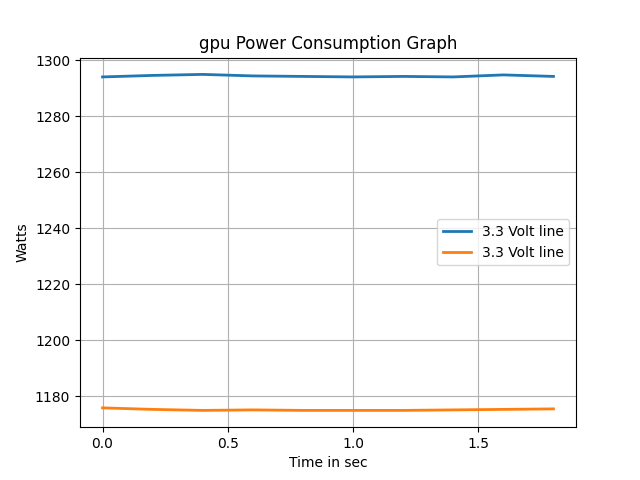
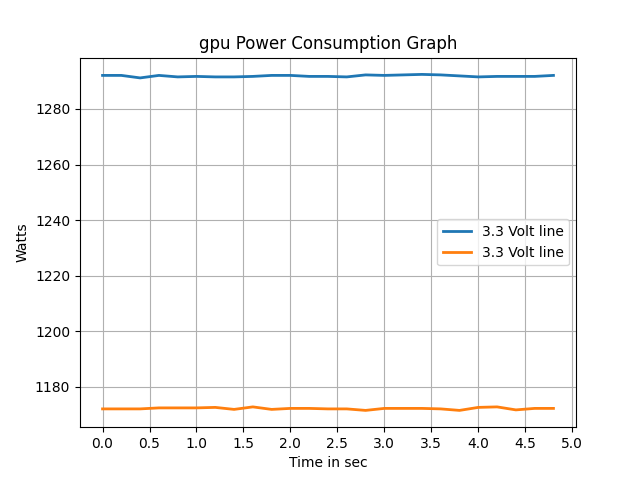
This is the server, client, and example code that is all documented

diff --git a/server.py b/server.py
@@ -1,0 +1,84 @@
+import socket
+import signal
+import sys
+import subprocess
+import json
+import time
+
+def reader(file):
+    '''
+    The goal of this function is to read times written to file 
+    by the subprocess function. It then returns this dictionary
+    to be used by the client
+    '''
+    with open(file, 'r') as f:
+        data = json.load(f)
+    print(data)
+    print(type(data))
+    return data
+
+
+def start_server(ip, port):
+    '''
+    This function will run the server forever unless it recieves a SIGint 
+    signal which is caused by "ctrl + c". The purpose of this server is to
+    connect with the client and run a class using subprocess. Once a client is
+    connected, it send a "process beginning" to indicate initial measurements. 
+    Once the subprocess is complete, it sends a "Process finished" message. Finally, 
+    the server sends a dictionary that contains the possbile code wrap arounds.
+    '''
+    # the .AF_INET will represent that the socket will say the socket being used is the IPv4
+    # the .SOCK_STREAM will represent that the socket wil be a TCP socket
+    server_socket = socket.socket(socket.AF_INET, socket.SOCK_STREAM)
+    # the server will listen to incoming connections with IP and port
+    server_socket.bind((ip, port))
+    # Turns the socket into listening mode, the param represents the amount of connections
+    server_socket.listen(1)
+    # The max amount of queued connections for the server
+    server_socket.settimeout(1)
+    print(f"Server started at {ip}:{port}, waiting for connections...")
+
+    # handles the SIGINT signal which is made when pressing crtl +c
+    def signal_handler(sig, frame):
+        print("\nServer shutting down.")
+        server_socket.close()
+        sys.exit(0)
+    
+    # registers the signal_handler functions and when ctrl+c is pressed the signal handler will be called
+    signal.signal(signal.SIGINT, signal_handler)
+    
+    # server runs forever unless ctrl+c is pressed
+    while True:
+        try:
+            # accepts new connections
+            client_socket, client_address = server_socket.accept()
+        except socket.timeout:
+            continue
+        with client_socket:
+
+            # Connection established
+            print(f"Connection from {client_address} established.")
+            processStarting = "Process Starting"
+            
+            # Process Starting message being sent
+            client_socket.sendall(processStarting.encode('utf-8'))
+
+            # Running the class
+            result = subprocess.run(["python3","timeWatch.py", "5"], capture_output=True, text=True)
+
+            # Process Finished message being sent
+            processComplete = "Process finished"
+            client_socket.sendall(processComplete.encode('utf-8'))
+
+            #Printing out any errors
+            print("Output:\n", result.stdout)
+            print("Errors:\n", result.stderr)
+
+
+            client_socket.close()
+
+
+SERVER_IP = '127.0.0.1' 
+SERVER_PORT = 25565      
+
+start_server(SERVER_IP, SERVER_PORT)

diff --git a/client.py b/client.py
@@ -1,0 +1,76 @@
+from powerMeasurer import PowerPack
+import socket
+import json
+import socket
+
+SERVER_IP = "127.0.0.1" # refers to your own machine 
+SERVER_PORT = 25565
+
+def reader(file):
+    '''
+    The goal of this function is to read times written to file 
+    by the subprocess function. It then returns this dictionary
+    to be used by the client
+    '''
+    with open(file, 'r') as f:
+        data = json.load(f)
+    return data
+
+
+def measure(ip, port, message):
+    '''
+    This is where the client does most of the work. It works by
+    first connecting to the server. It then receives a started function
+    which is its signal to start measuring. Once the server is done running
+    the function, it then recieves a complete signal, which we use to stop
+    measuring. At the end, we read from the file the function wrote to gather times
+    and return that
+    '''
+    with socket.socket(socket.AF_INET, socket.SOCK_STREAM) as client_socket:
+        
+        # connects to the server
+        client_socket.connect((ip, port))
+        client_socket.sendall(message.encode('utf-8'))
+        print(f"Message sent to {ip}:{port}")
+
+
+        # Receive response from the server to start measuring
+        startMeasuring = client_socket.recv(16)
+        if startMeasuring:
+            print(f"Response from server: {startMeasuring.decode('utf-8')}\n\n")
+            power_pack.start()
+
+        # Recieve response from the server to stop measuring
+        stopMeasuring = client_socket.recv(16).decode('utf-8')
+        if stopMeasuring:
+            print("The process has been completed, so stop measuring\n\n")
+            power_pack.stop()
+            print(f"\n\n{stopMeasuring}\n\n")
+    
+    times = reader('output.txt')
+    return times
+
+
+# Initilize power pack
+power_pack = PowerPack(numberOfSamplesToGather=5, rateOfSamples=5, ohms=0.003)
+
+# make matrix with parts
+lineMatrix = [[
+"cDAQ1Mod4/ai0",
+"cDAQ1Mod4/ai3"
+],
+[],
+[]
+]
+lineMat = [[],["cDAQ1Mod6/ai0"],[]]
+
+# initalize parts
+power_pack.initializePart("gpu", lineMatrix)
+power_pack.initializePart("motherboard", lineMat)
+
+# start measuring
+times = measure(SERVER_IP, SERVER_PORT, "Anyone there?")
+
+# Plot information and make the CSV
+power_pack.makeCSVs()
+power_pack.plot(times)

diff --git a/partWeAreMeasuring/partSetUp.py b/partWeAreMeasuring/partSetUp.py
@@ -239,10 +239,10 @@ class Measurements:
             writer.writerows(self.data)
 
 
-    def plot(self, times):
+    def plot(self, times, verticalAsymtotes=None):
         '''
         This will turn the data matrix into a graph and save it 
-        a directoy named graph
+        a directoy named graph.
         '''
         dataWithNoChannelInfo = []
         voltageAmounts = []
@@ -251,20 +251,23 @@ class Measurements:
             dataWithNoChannelInfo.append(row[2:])
             voltageAmounts.append(row[1])
 
-        self._plotGraphs(times, dataWithNoChannelInfo, self.name, voltageAmounts)
+        self._plotGraphs(times, dataWithNoChannelInfo, self.name, voltageAmounts, verticalAsymtotes)
 
 
-    def _plotGraphs(self, time, lines, name, voltageAmount):
+    def _plotGraphs(self, time, lines, name, voltageAmount, verticalAsymtotes=None):
         '''
         This will plot the different lines which are arrays as the y-axis and
         the x-axis is the time array. This is a private method to help with
-        plotting
+        plotting. It will also add vertical Asymtote to the graph if they exist
         '''
         
         plt.figure()
         for index, line in enumerate(lines):
             plt.plot(time, line, label=f'{voltageAmount[index]} line', lw=2)
 
+        if verticalAsymtotes:
+            for asymtote in verticalAsymtotes:
+                plt.axvline(x=asymtote, color='r', linestyle='--', label=f'{verticalAsymtotes[asymtote]}')
         plt.xlabel('Time in sec')
         plt.ylabel('Watts')
         plt.title(f'{name} Power Consumption Graph')

diff --git a/powerMeasurer.py b/powerMeasurer.py
@@ -157,10 +157,12 @@ class PowerPack:
             part.makeCSV()
 
 
-    def plot(self):
+    def plot(self, verticalAsymtotes=None):
         '''
         This will make a graph of the data for each part of the computer.Use this
-        only after start and stopping the powerpack otherwise no data to be read
+        only after start and stopping the powerpack otherwise no data to be read.
+        This plot function also takes in a dictionary that has time stamps as keys
+        and the name of section you are covering as the value
         '''
         times = []
         passedTime = 0
@@ -172,7 +174,11 @@ class PowerPack:
         print(times)
 
         for part in self.registeredParts:
-            part.plot(times)
+            if verticalAsymtotes:
+                part.plot(times, verticalAsymtotes)
+            else:
+                part.plot(times)
+
 
 
 
@@ -203,7 +209,11 @@ if __name__ == "__main__":
 
     # Plot information
     power_pack.makeCSVs()
-    power_pack.plot()
+
+    # Example of a adding a asymtote that occurs on the 1st second.
+    # In this case, it is named cool
+    asymtote = {1:"cool"}
+    power_pack.plot(asymtote)
 
     print("Main thread exiting")
 

diff --git a/timeWatch.py b/timeWatch.py
@@ -1,0 +1,16 @@
+import sys
+import time
+import json
+args = sys.argv
+
+if len(args) != 2:
+    print("not enough arguments available")
+    sys.exit(1)
+
+tiempo = args[1]
+print("In time")
+time.sleep(int(tiempo))
+times = {2:"Step 1", 3: "step 2"}
+
+with open('output.txt', 'w') as f:
+    json.dump(times, f)
